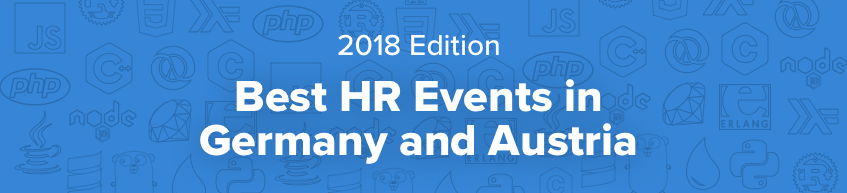
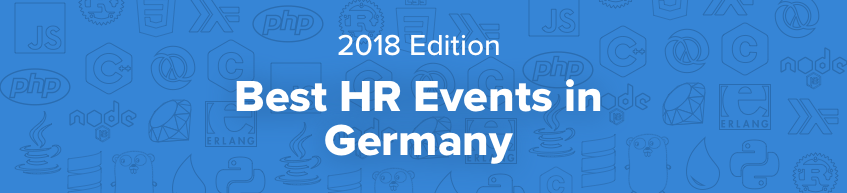
updated germany hr events blog ccover photo

Changed region(s): [[0.2149, 0.6218, 0.7674, 0.8705]]

diff --git a/_posts/2017-12-04-the-best-hr-events-in-germany-and-austria-2018-edition.md b/_posts/2017-12-04-the-best-hr-events-in-germany-and-austria-2018-edition.md
@@ -83,7 +83,7 @@ As the name suggests, the [Sino HR Conference 2018](http://www.sino-hr-conferenc
 
 **June 26th-27th**
 
-**1.190€**
+**1,190€**
 
 The [Personal Management Kongress](https://www.personalmanagementkongress.de/) annually attracts around 1,500 participants from startups and corporations alike. Organized by the Federation of Personnel Managers (BPM), Germany’s leading professional body for HR managers, the conference focuses on trends and future changes in the industry. 
 
